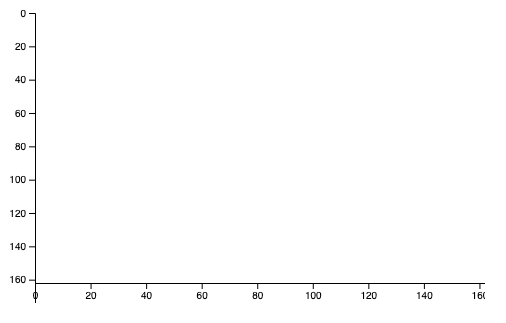
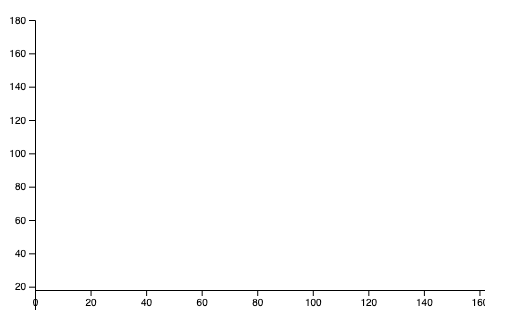
update

diff --git a/index.js b/index.js
@@ -1,9 +1,7 @@
 
-// create a new variable called 'data'
 var dataset = [80, 100, 56, 120, 180, 30, 40, 120, 160];
 
 var svgWidth = 500, svgHeight = 300;
-var barWidth = (svgWidth / dataset.length);
 
 var svg = d3.select('svg')
     .attr("width", svgWidth)
@@ -17,7 +15,8 @@ var xScale = d3.scaleLinear()
 // adding scale to y    
 var yScale = d3.scaleLinear()
     .domain([0, d3.max(dataset)])
-    .range([0,svgHeight]);
+    // note the order change
+    .range([svgHeight,0]);
 
 // add x axis
 var x_axis = d3.axisBottom()
@@ -27,7 +26,7 @@ var x_axis = d3.axisBottom()
 var y_axis = d3.axisLeft()
     .scale(yScale);
 
-// append to svg element
+// append group to svg element
 svg.append("g")
     .attr("transform", "translate(50, 10)")
     .call(y_axis);
